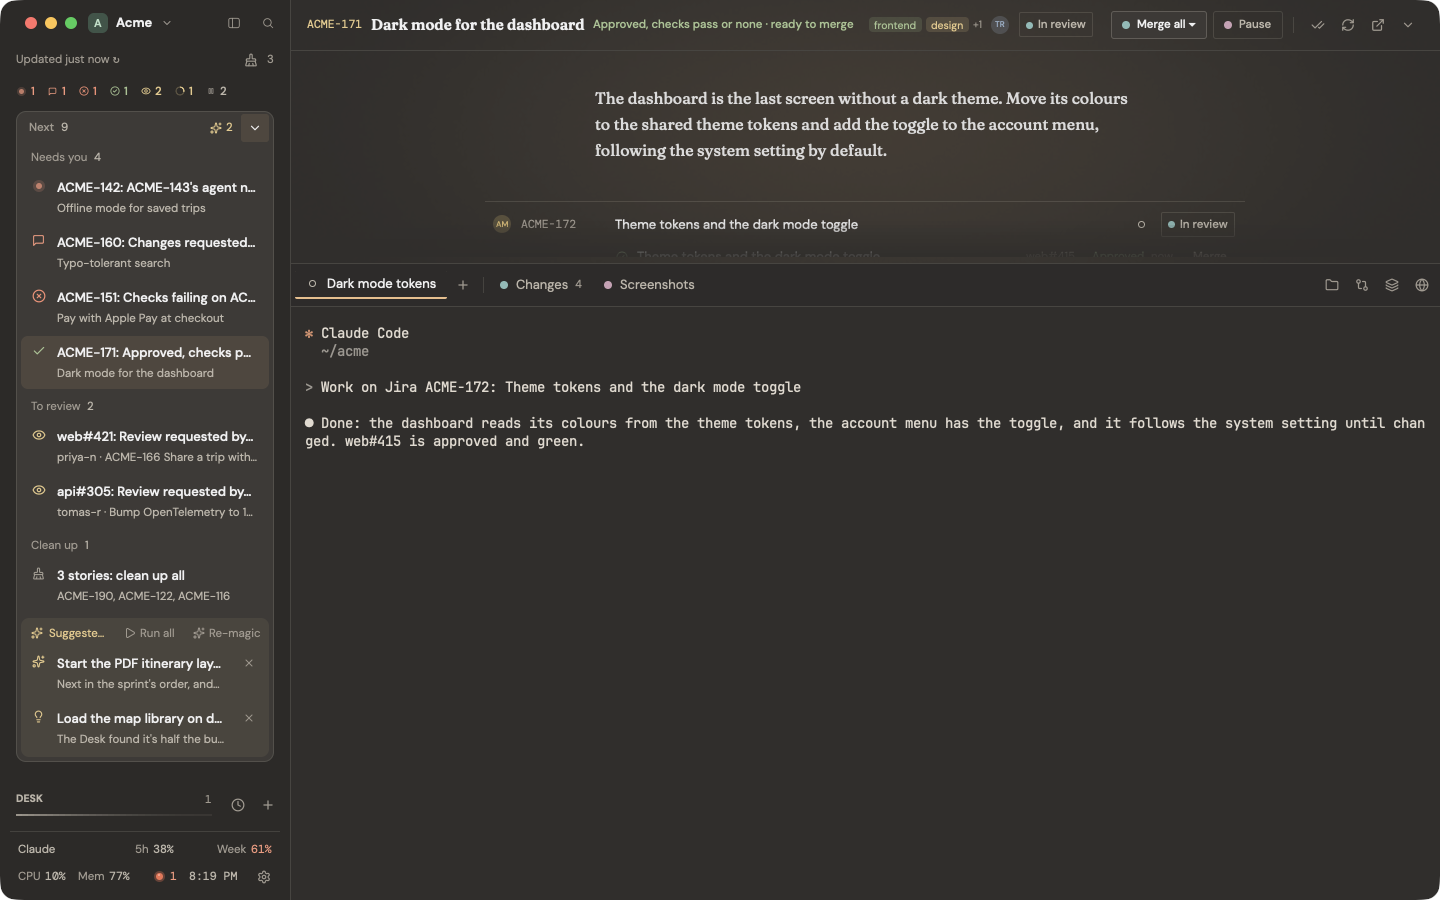
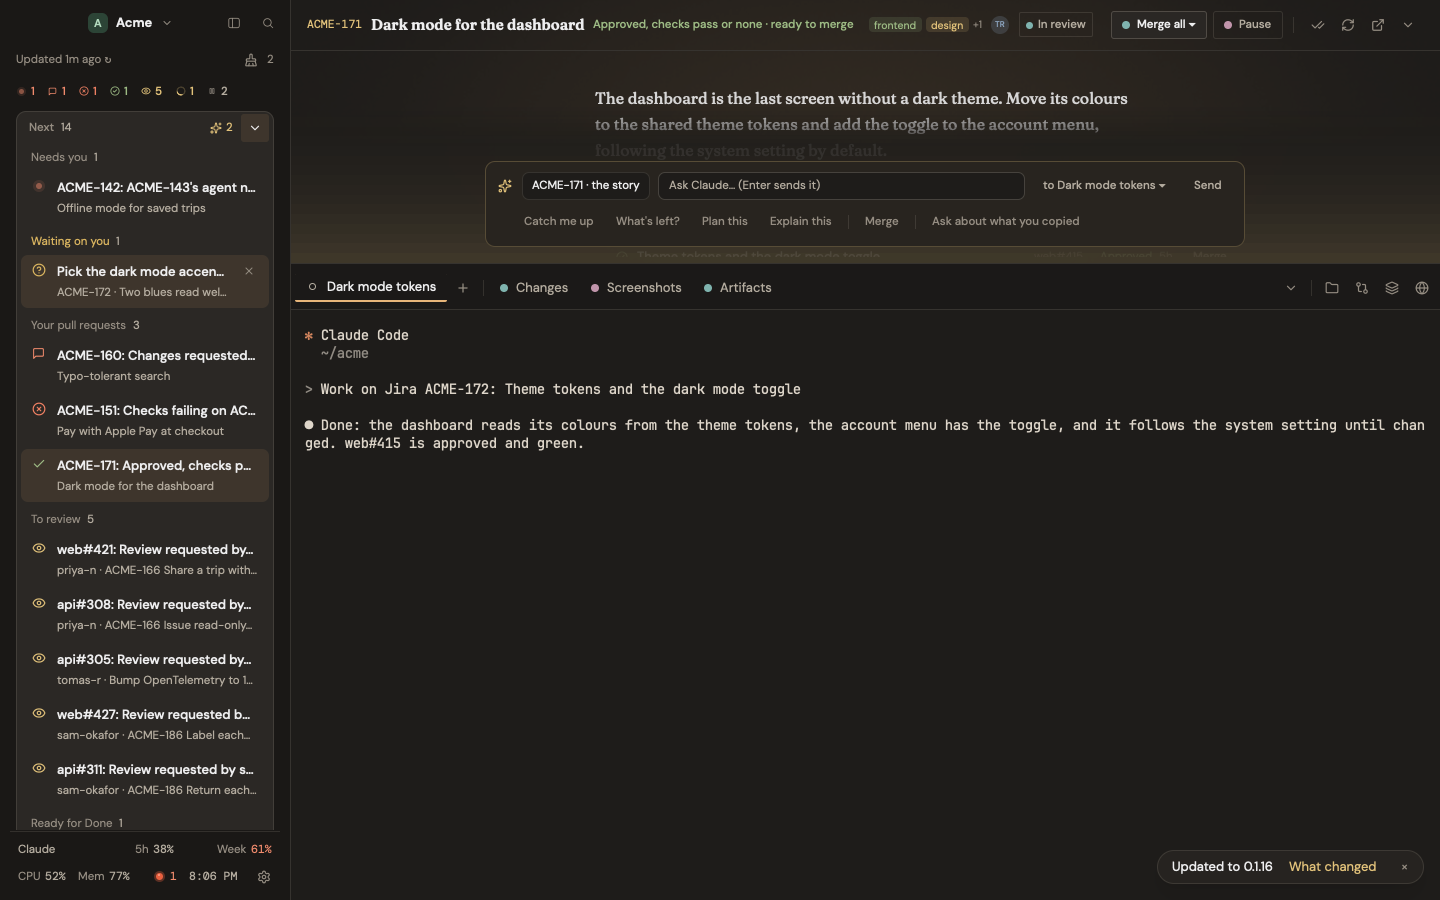
[docs] retake the README's Next screenshot with the waiting groups
#252 split Next's "Needs you" into what's blocked, the agents waiting on
you and your pull requests' needs, so the old screenshot showed groups
that no longer exist. Retaken from the demo at 1440x900, zoom 1, with
ACME-171 shown and the queue open as before; the line above it now says
what Next lists first.

Part of #249.

diff --git a/README.md b/README.md
@@ -18,9 +18,9 @@ Each story's pull requests, commits not in a pull request yet and uncommitted wo
 
 ![The Changes view: a file list on the left, a diff on the right](docs/screenshots/changes.png)
 
-Next takes you to whatever needs you, most urgent first. Claude can add its own picks from the sprint, the reviews waiting on you and the repos you work in:
+Next takes you to whatever needs you, most urgent first: an agent blocked on a prompt, then the agents that ended their turn waiting on you (a question, a choice, a plan to approve), then your pull requests, the reviews waiting on you and more. Claude can add its own picks from the sprint, the reviews waiting on you and the repos you work in:
 
-![The Next queue opened: what needs you, the reviews waiting on you, finished stories to clean up, and Claude's picks](docs/screenshots/next.png)
+![The Next queue opened: an agent that needs you, an agent waiting on your answer, your pull requests and the reviews waiting on you](docs/screenshots/next.png)
 
 A review waiting for you, before any agent starts on it:
 
